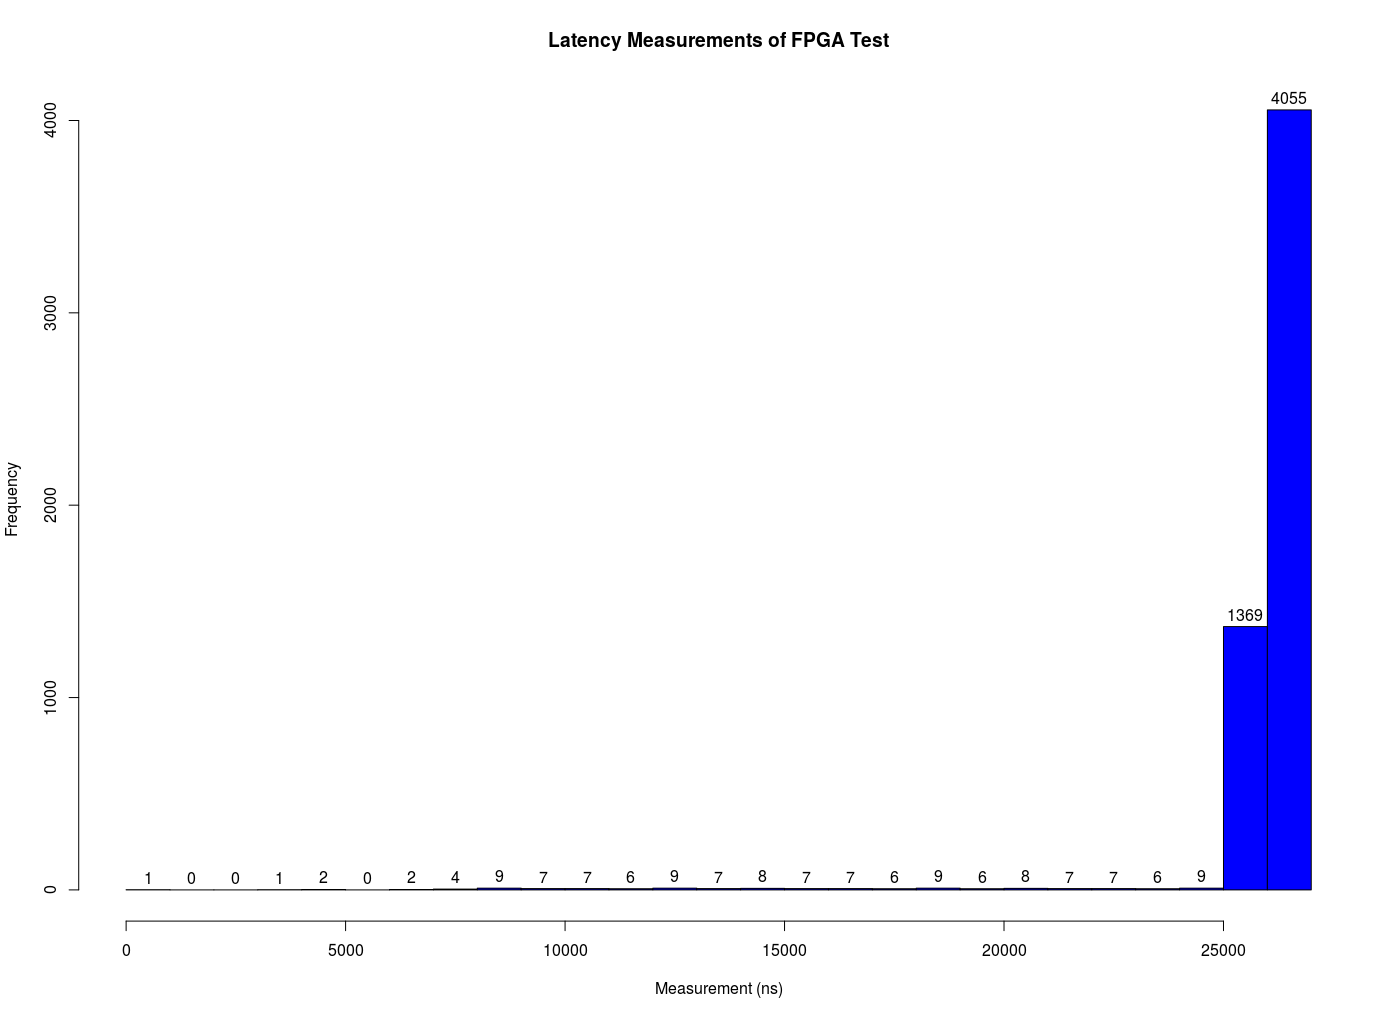
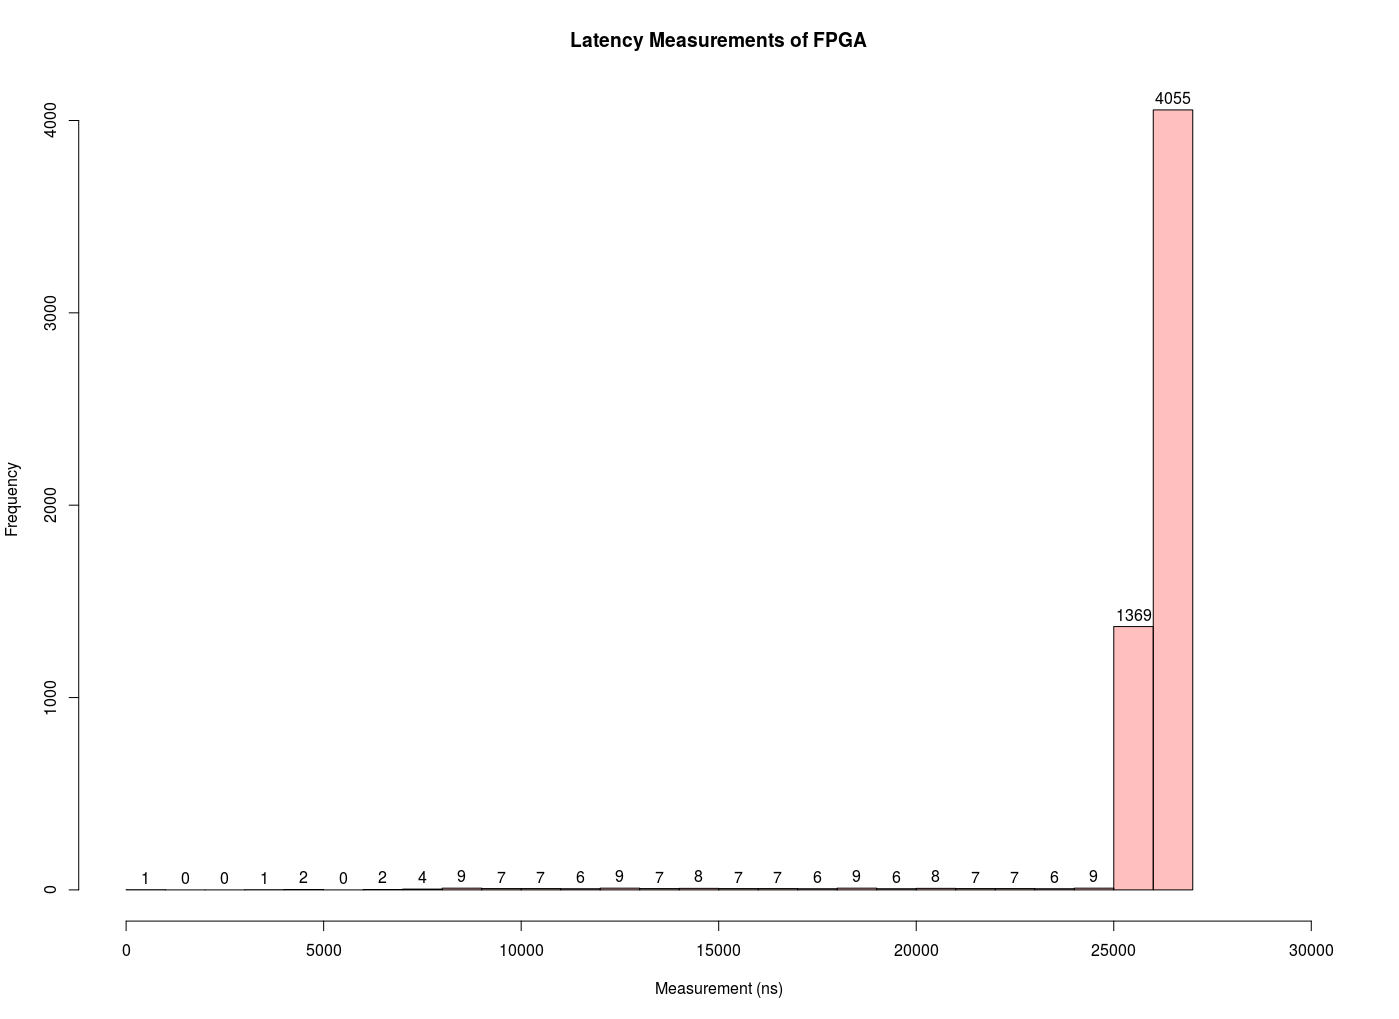
Added new graphs

diff --git a/Report/Final/evaluation.tex b/Report/Final/evaluation.tex
@@ -60,7 +60,7 @@ the two connections arrived at the same machine.
 
 \begin{figure}[H]
     \begin{center}
-        \includegraphics[keepaspectratio,height=7.5cm]{Images/DPDK}
+        \includegraphics[keepaspectratio,height=7.5cm]{Images/pf_ring}
         \caption{Results from DPDK Reliability Measurements}
         \label{fig:DPDKReliability}
     \end{center}
@@ -68,7 +68,7 @@ the two connections arrived at the same machine.
 
 \begin{figure}[H]
     \begin{center}
-        \includegraphics[keepaspectratio,height=7.5cm]{Images/Test1Plot}
+        \includegraphics[keepaspectratio,height=7.5cm]{Images/TestPlot}
         \caption{Results from FPGA device Reliability Measurements}
         \label{fig:Test2Plot}
     \end{center}
